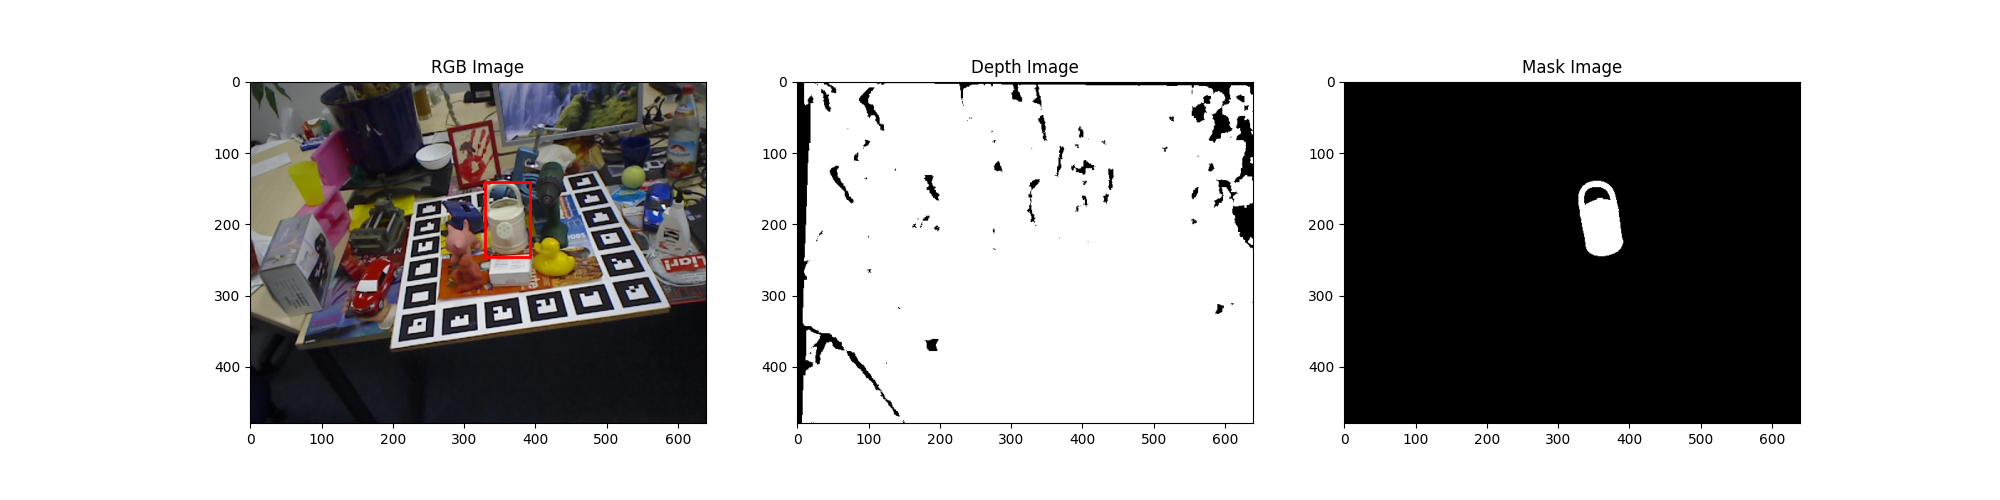
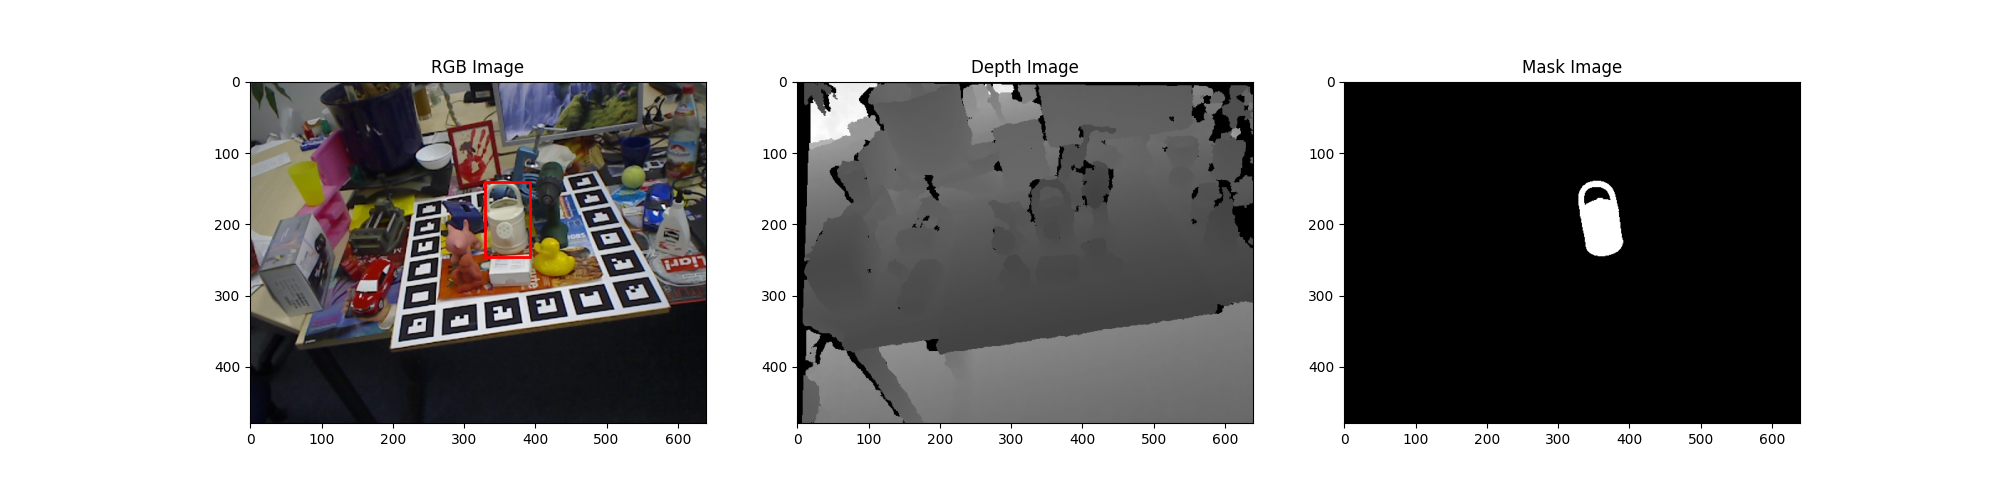
fix depth loading

Changed region(s): [[0.403, 0.15, 0.651, 0.87]]

diff --git a/dataload/dataloader.py b/dataload/dataloader.py
@@ -46,7 +46,7 @@ class PoseDataset(Dataset):
         return self.transform(img)
     def load_depth(self, depth_path):
         # Load a depth image and convert to tensor.
-        depth = Image.open(depth_path).convert("L")
+        depth = Image.open(depth_path)
         return self.transform(depth)
     def load_mask(self, mask_path):
         # Load a mask image and convert to tensor.
